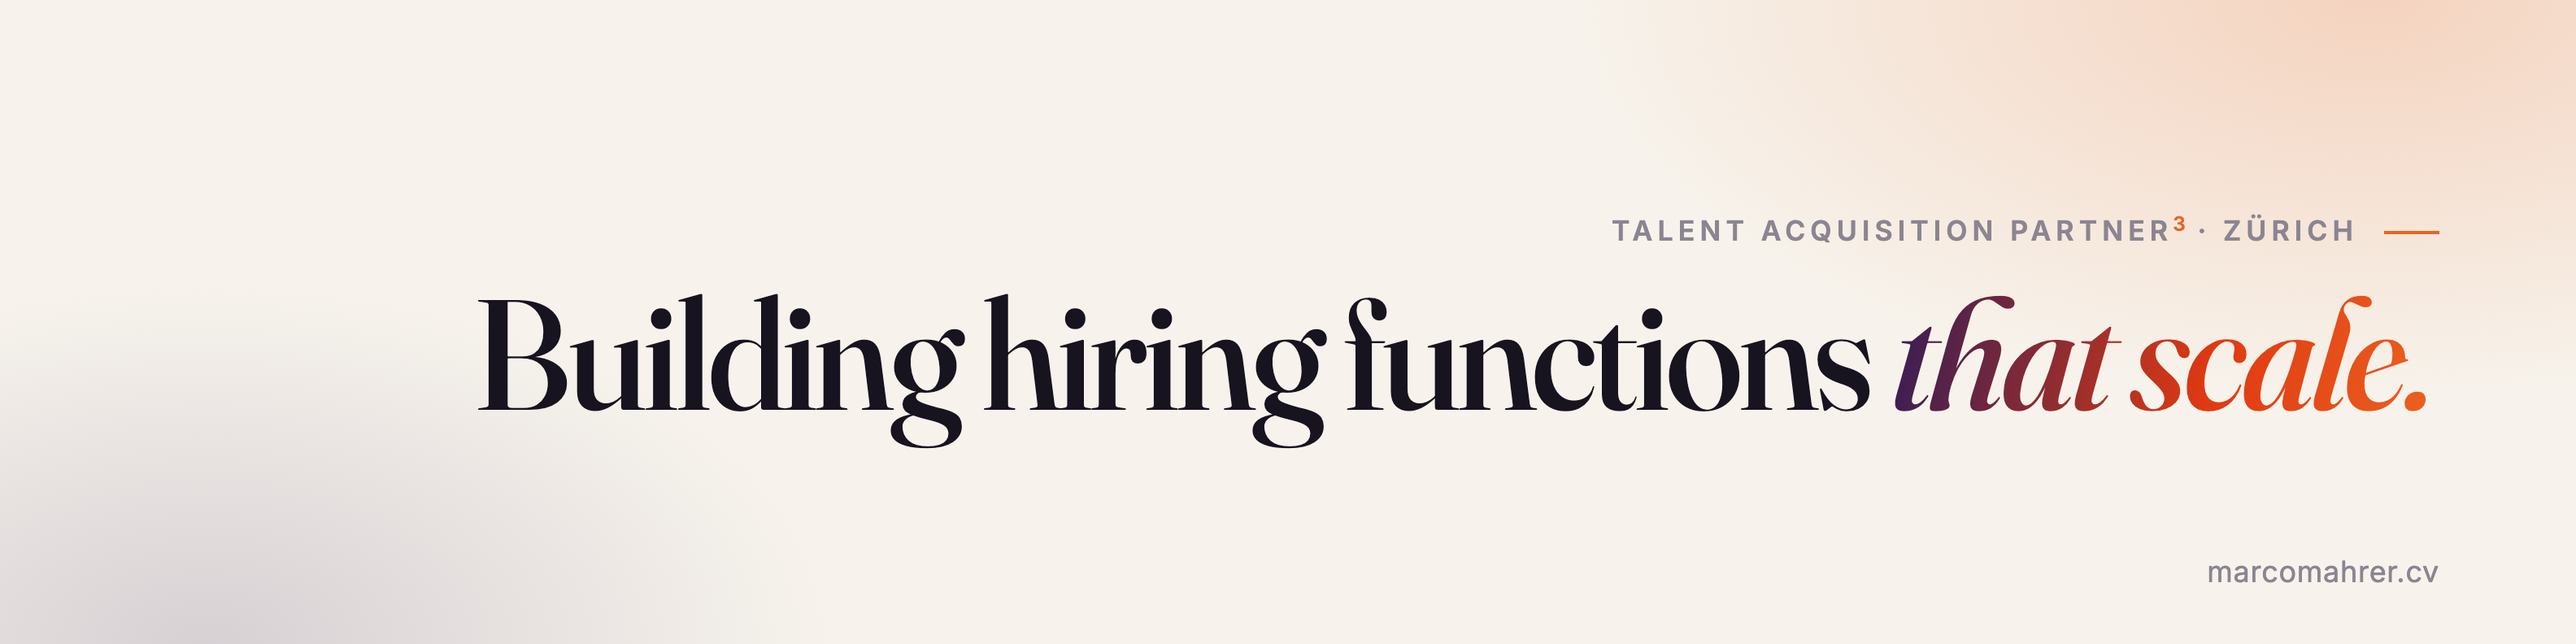
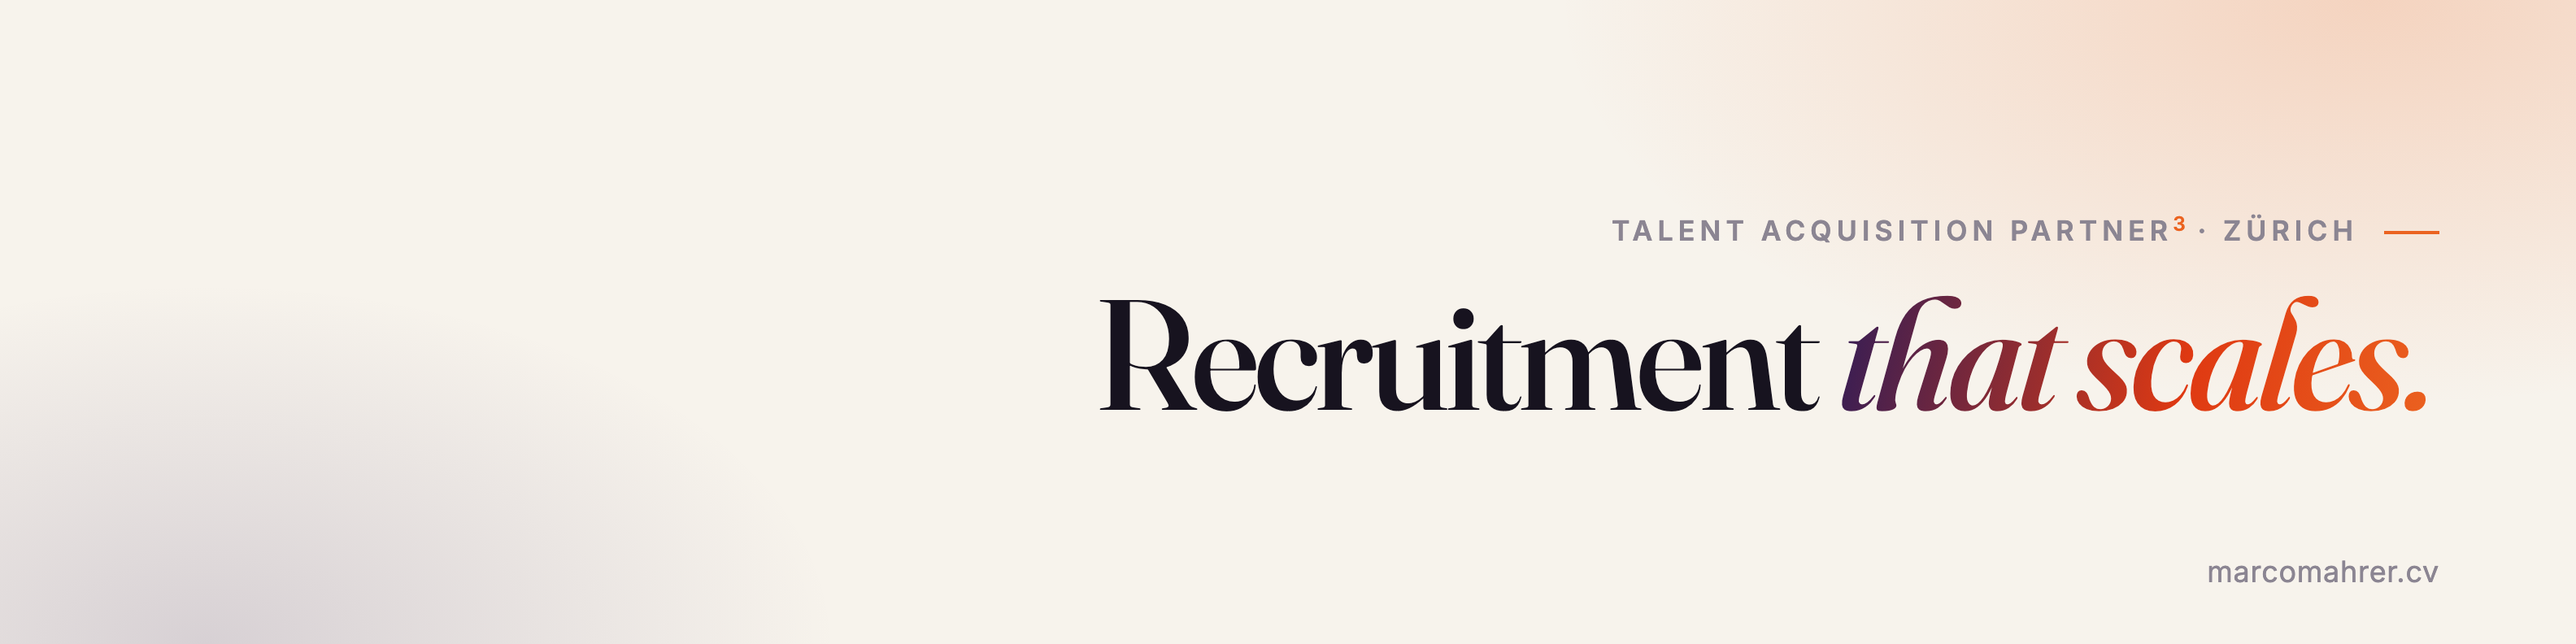
Hero: tighter top gap, location on its own line; EN headline 'Recruitment that scales.'

Changed region(s): [[0.1875, 0.4545, 0.9375, 0.697], [0.5312, 0.4545, 0.5625, 0.4848]]

diff --git a/index.html b/index.html
@@ -6,8 +6,8 @@ alt_url: /de/
 ---
 <section class="hero">
   <div class="wrap">
-    <p class="eyebrow reveal">Talent Acquisition Partner<sup>3</sup> · Zürich, Switzerland</p>
-    <h1 class="reveal">Building hiring functions <em>that scale.</em></h1>
+    <p class="eyebrow eyebrow--hero reveal">Talent Acquisition Partner<sup>3</sup><span class="eyebrow-sub">Zürich, Switzerland</span></p>
+    <h1 class="reveal">Recruitment <em>that scales.</em></h1>
     <p class="lede reveal">Hiring is a systems problem. Fifteen years in tech recruiting across Europe and the US, three unicorns grown from the inside. Now AI-native: I build the system that handles volume with precision, so recruiters and hiring managers spend their time on judgment. AI drafts, coordinates, and ranks. Humans decide.</p>
     <div class="cta reveal">
       <a class="btn btn-primary" href="#contact">Get in touch</a>

diff --git a/de/index.html b/de/index.html
@@ -7,7 +7,7 @@ description: "Rekrutierung, die skaliert. Talent Acquisition Partner³, von der 
 ---
 <section class="hero">
   <div class="wrap">
-    <p class="eyebrow reveal">Talent Acquisition Partner<sup>3</sup> · Zürich, Schweiz</p>
+    <p class="eyebrow eyebrow--hero reveal">Talent Acquisition Partner<sup>3</sup><span class="eyebrow-sub">Zürich, Schweiz</span></p>
     <h1 class="reveal">Rekrutierung, <em>die skaliert.</em></h1>
     <p class="lede reveal">Rekrutierung ist eine Systemfrage. Fünfzehn Jahre Tech-Rekrutierung in Europa und den USA, drei Unicorns von innen mitaufgebaut. Heute AI-native: Ich baue das System, das Volumen präzise bewältigt, damit Recruiter und Linienvorgesetzte ihre Zeit für Urteile einsetzen. AI entwirft, koordiniert und sortiert. Menschen entscheiden.</p>
     <div class="cta reveal">

diff --git a/assets/css/site.css b/assets/css/site.css
@@ -198,7 +198,9 @@ h1 em, h2 em, .grad {
 }
 
 /* ── Hero ───────────────────────────────────────────────── */
-.hero { padding: clamp(72px, 14vh, 150px) 0 clamp(56px, 8vh, 96px); }
+.hero { padding: clamp(28px, 5vh, 56px) 0 clamp(56px, 8vh, 96px); }
+.eyebrow--hero { margin-bottom: 26px; }
+.eyebrow-sub { display: block; margin-top: 7px; padding-left: 32px; font-weight: 500; letter-spacing: 0.14em; color: var(--ink-3); }
 .hero h1 {
   font-size: clamp(46px, 8.2vw, 108px);
   max-width: 14ch; line-height: 0.98; margin-bottom: 30px;

diff --git a/tools/og.html b/tools/og.html
@@ -15,6 +15,6 @@
   .name{font-family:Fraunces,Georgia,serif;font-weight:600;font-size:34px;color:#17131F;letter-spacing:-.02em}
 </style></head><body><div class="in">
   <div class="eyebrow" id="eyebrow">Talent Acquisition Partner<sup>3</sup> · Zürich</div>
-  <h1 id="title">Building hiring functions <em>that scale.</em></h1>
+  <h1 id="title">Recruitment <em>that scales.</em></h1>
   <div class="foot"><span class="name">Marco Mahrer</span><span>marcomahrer.cv</span></div>
 </div></body></html>

diff --git a/tools/banner.html b/tools/banner.html
@@ -25,7 +25,7 @@
 </style></head><body class="light">
 <div class="in">
   <div class="eyebrow">Talent Acquisition Partner<sup>3</sup> · Zürich</div>
-  <h1 id="h">Building hiring functions <em>that scale.</em></h1>
+  <h1 id="h">Recruitment <em>that scales.</em></h1>
   <div class="stats" id="stats" hidden>
     <div class="stat"><b>4,500+</b><span>Interviews</span></div>
     <div class="stat"><b>350+</b><span>Hires</span></div>
